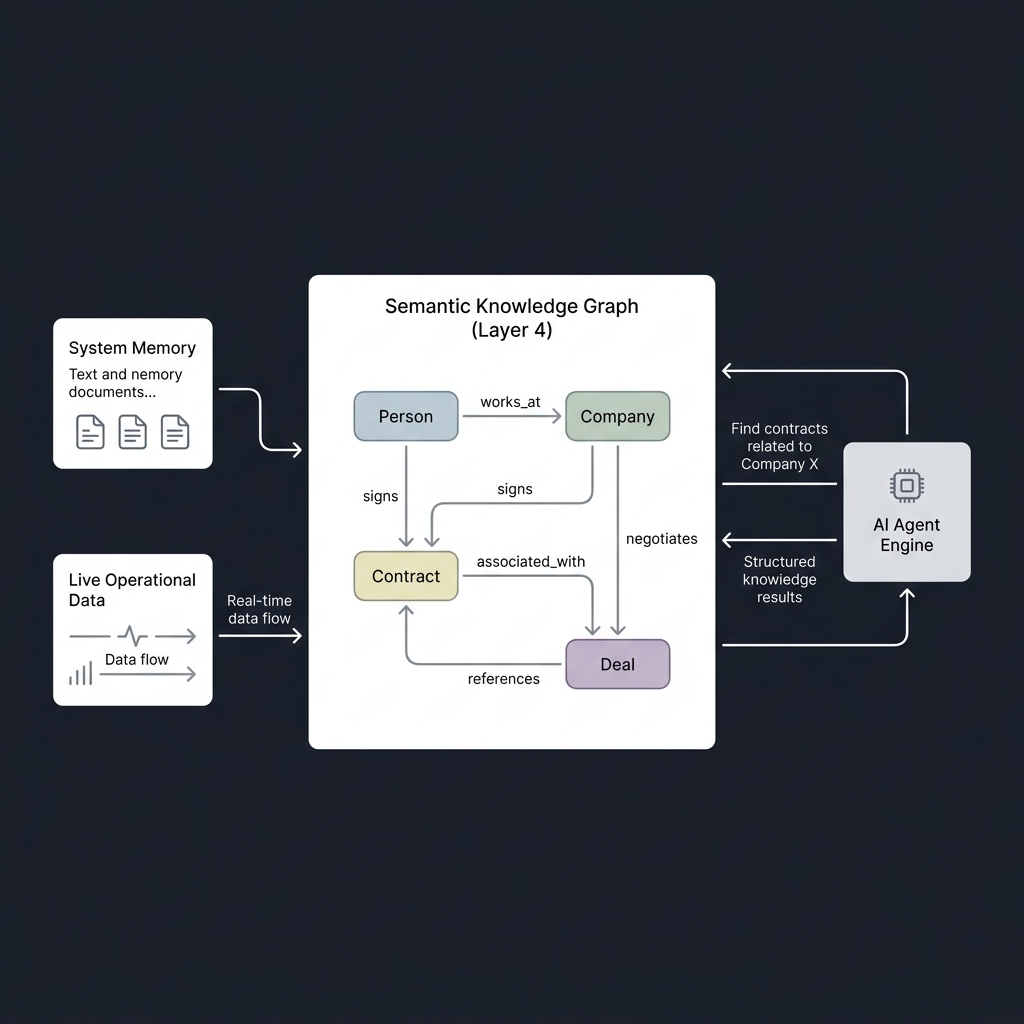
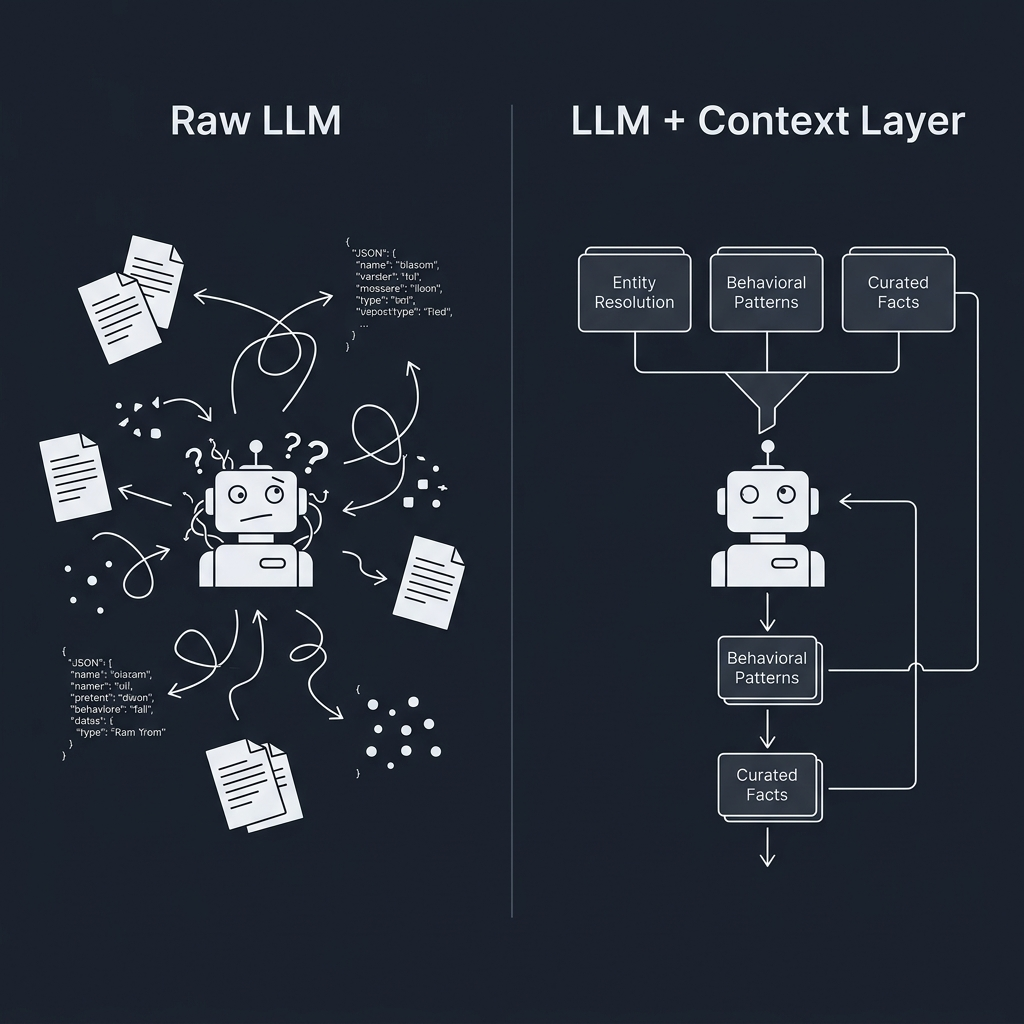
content(tech): update context layer articles and architecture diagrams

diff --git a/content/tech-blog/he/building-an-effective-context-layer-part-3.md b/content/tech-blog/he/building-an-effective-context-layer-part-3.md
@@ -4,7 +4,7 @@ title: "Context Layer #3: ארכיטקטורת 4 השכבות"
 slug: "building-an-effective-context-layer-part-3"
 excerpt: "למד כיצד לארגן Context Layer בארבע שכבות פונקציונליות מול תרחיש CRM מציאותי: נתונים גולמיים, נתונים אנליטיים, אותות מעובדים מראש וזיכרון סמנטי."
 date: "2026-08-01"
-coverImage: "/context-layer-cover.png"
+coverImage: "/context-layer-4-layer-architecture.png"
 projectUrl: "https://github.com/ohadleshno"
 techStack: ["AI Agents", "Context Layer", "Data Engineering", "Apache Spark", "Apache Airflow", "SQL", "Vector Search"]
 language: "he"
@@ -18,7 +18,7 @@ seriesOrder: 3
 ---
 
 <figure class="article-screenshot-figure">
-  <img src="/context-layer-cover.png" alt="ארכיטקטורת ה-Context ב-4 שכבות" class="article-screenshot" />
+  <img src="/context-layer-4-layer-architecture.png" alt="ארכיטקטורת ה-Context ב-4 שכבות" class="article-screenshot" />
   <figcaption>מבנה 4 השכבות הפונקציונליות: דאטה תפעולי גולמי, מטריקות אנליטיות, אותות מעובדים מראש וזיכרון סמנטי.</figcaption>
 </figure>
 

diff --git a/content/tech-blog/he/building-an-effective-context-layer-part-7.md b/content/tech-blog/he/building-an-effective-context-layer-part-7.md
@@ -4,7 +4,7 @@ title: "Context Layer #7: המוח (זיכרון סמנטי ו-Graph RAG)"
 slug: "building-an-effective-context-layer-part-7"
 excerpt: "שלוט בשכבה 4. למד כיצד זיכרון ארגוני, התאמת קול ה-Persona, חיפוש סמנטי היברידי ומיפוי ישויות ב-Graph RAG משלימים את ה-Context Layer."
 date: "2026-08-01"
-coverImage: "/context-layer-bulldozer-shovel.png"
+coverImage: "/context-layer-semantic-memory-graph.png"
 projectUrl: "https://github.com/ohadleshno"
 techStack: ["AI Agents", "Context Layer", "Data Engineering", "Vector Search", "Graph RAG", "Python"]
 language: "he"
@@ -18,7 +18,7 @@ seriesOrder: 7
 ---
 
 <figure class="article-screenshot-figure">
-  <img src="/context-layer-bulldozer-shovel.png" alt="שכבה 4 זיכרון סמנטי ו-Graph RAG" class="article-screenshot" />
+  <img src="/context-layer-semantic-memory-graph.png" alt="שכבה 4 זיכרון סמנטי ו-Graph RAG" class="article-screenshot" />
   <figcaption>שכבה 4: זיכרון ארגוני לטווח ארוך, התאמת voice ל-Persona, חיפוש סמנטי היברידי ומיפוי ישויות Graph RAG.</figcaption>
 </figure>
 

diff --git a/content/tech-blog/en/building-an-effective-context-layer-part-7.md b/content/tech-blog/en/building-an-effective-context-layer-part-7.md
@@ -4,7 +4,7 @@ title: "Context Layer #7: The Brain (Graph RAG & Memory)"
 slug: "building-an-effective-context-layer-part-7"
 excerpt: "Master Layer 4. Discover how organizational memory, persona voice alignment, hybrid vector search, and Graph RAG entity linking complete the Context Layer for AI Agents."
 date: "2026-08-01"
-coverImage: "/context-layer-bulldozer-shovel.png"
+coverImage: "/context-layer-semantic-memory-graph.png"
 projectUrl: "https://github.com/ohadleshno"
 techStack: ["AI Agents", "Context Layer", "Data Engineering", "Vector Search", "Graph RAG", "Python"]
 language: "en"
@@ -18,7 +18,7 @@ seriesOrder: 7
 ---
 
 <figure class="article-screenshot-figure">
-  <img src="/context-layer-bulldozer-shovel.png" alt="Layer 4 Semantic Memory & Graph RAG" class="article-screenshot" />
+  <img src="/context-layer-semantic-memory-graph.png" alt="Layer 4 Semantic Memory & Graph RAG" class="article-screenshot" />
   <figcaption>Layer 4 Semantic Memory: Long-term organizational memory, persona voice alignment, hybrid vector search, and Graph RAG entity links.</figcaption>
 </figure>
 

diff --git a/content/tech-blog/en/building-an-effective-context-layer-part-3.md b/content/tech-blog/en/building-an-effective-context-layer-part-3.md
@@ -4,7 +4,7 @@ title: "Context Layer #3: The 4 Layer Architecture Blueprint"
 slug: "building-an-effective-context-layer-part-3"
 excerpt: "Learn how to structure a Context Layer into four functional layers around a real-world CRM scenario: Raw Data, Analytical Data, Preprocessed Signals, and Semantic High-Level Memory."
 date: "2026-08-01"
-coverImage: "/context-layer-cover.png"
+coverImage: "/context-layer-4-layer-architecture.png"
 projectUrl: "https://github.com/ohadleshno"
 techStack: ["AI Agents", "Context Layer", "Data Engineering", "Apache Spark", "Apache Airflow", "SQL", "Vector Search"]
 language: "en"
@@ -18,7 +18,7 @@ seriesOrder: 3
 ---
 
 <figure class="article-screenshot-figure">
-  <img src="/context-layer-cover.png" alt="The 4-Layer Context Architecture" class="article-screenshot" />
+  <img src="/context-layer-4-layer-architecture.png" alt="The 4-Layer Context Architecture" class="article-screenshot" />
   <figcaption>Overview of the 4 functional layers: Raw Operational Data, Analytical Metrics, Preprocessed Signals, and Semantic Memory.</figcaption>
 </figure>
 
